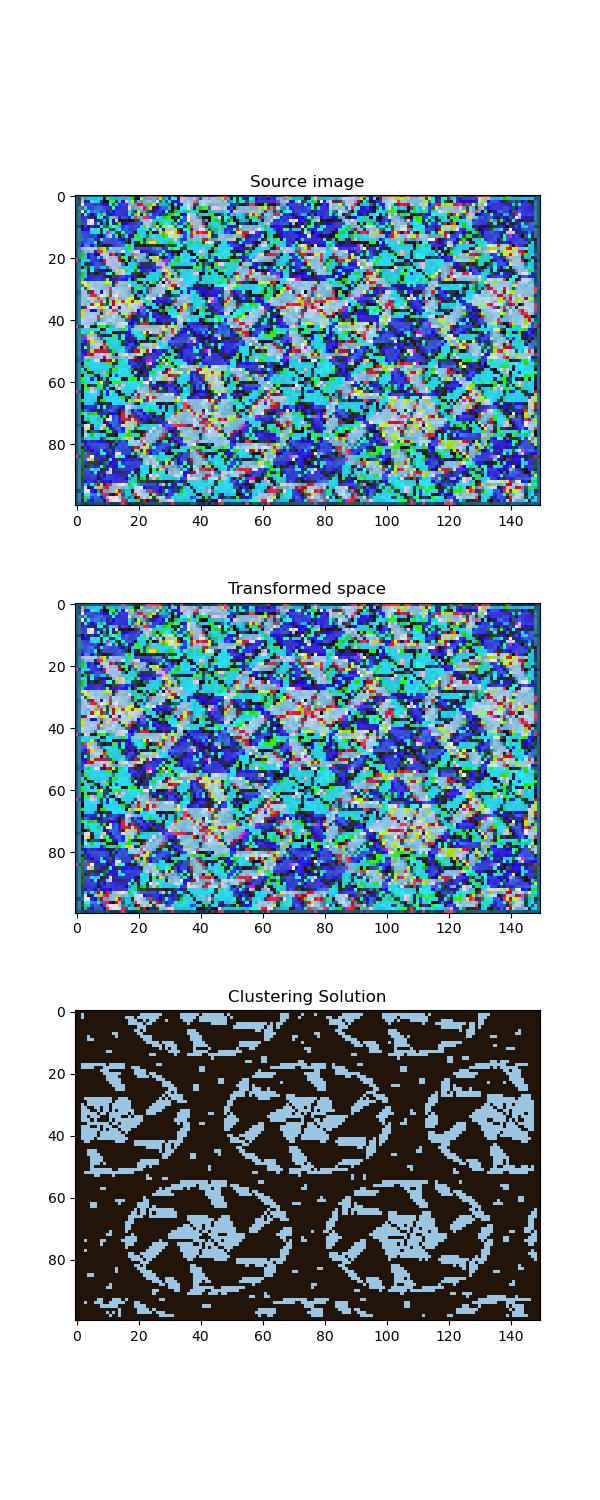
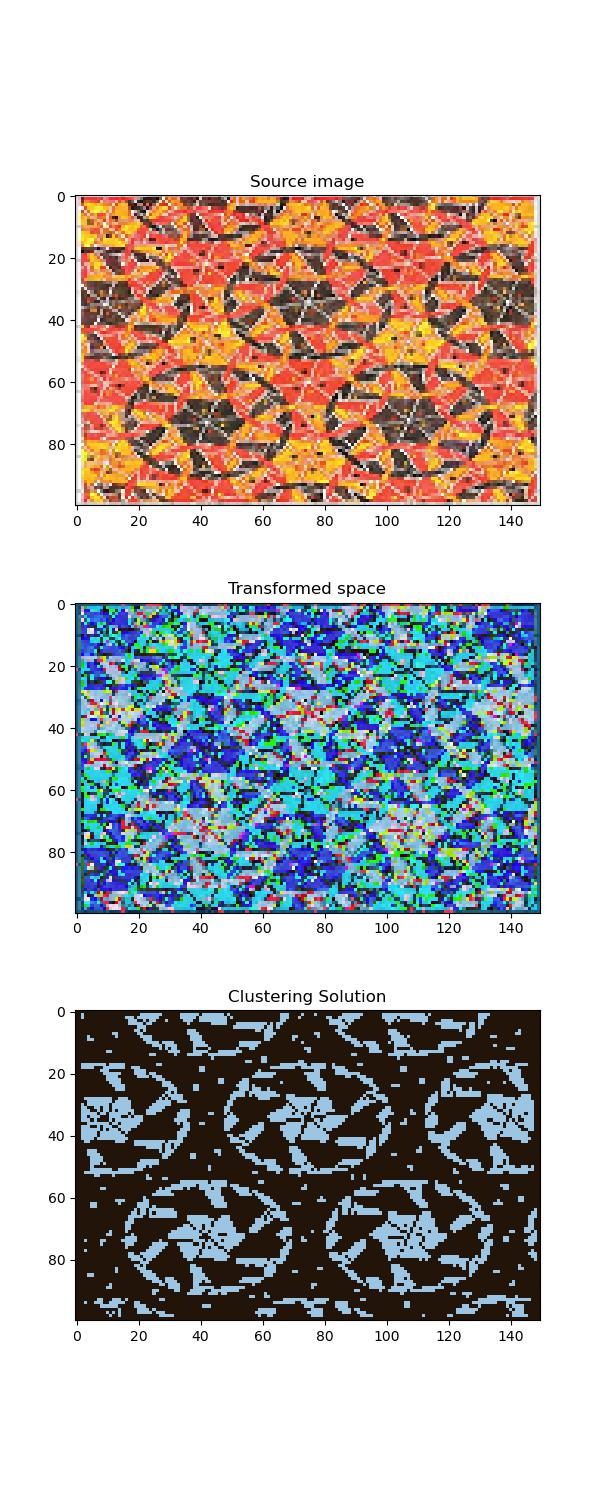
testing

Changed region(s): [[0.12, 0.1227, 0.9, 0.3373]]

diff --git a/MultiViewClusteringViaOrthogonalization/mViewClustViaOrthogonalization.py b/MultiViewClusteringViaOrthogonalization/mViewClustViaOrthogonalization.py
@@ -160,8 +160,8 @@ def mView_Clustering_via_Orthogonalization(DATA, alternatives, k, datatype):
 # Paper: Y. Cui et al. (2007). Non-redundant multi-view clustering via orthogonalization. ICDM (pp. 133-142).
 
 
-#DATA, k, datatype, imRow, imCol, imDim = generate_data(type= 'image') 	# 'image'
-DATA, k, datatype  = generate_data(type= '2-2-4') 						# '2-2-4', '4-3-2'
+DATA, k, datatype, imRow, imCol, imDim = generate_data(type= 'image') 	# 'image'
+#DATA, k, datatype  = generate_data(type= '2-2-4') 						# '2-2-4', '4-3-2'
 alternatives = 5 
 
 mView_Clustering_via_Orthogonalization(DATA, alternatives, k, datatype)
